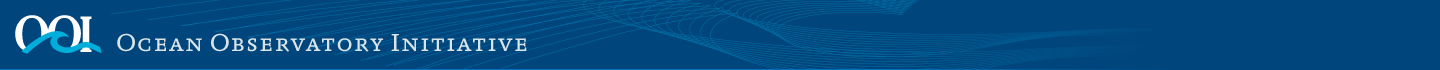
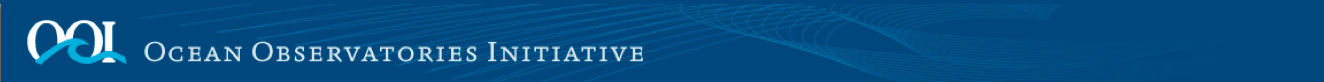
Correct page header image, initial platform device form integration.

diff --git a/static/js/ux-views.js b/static/js/ux-views.js
@@ -26,7 +26,6 @@ IONUX.Views.CreateNewView = Backbone.View.extend({
     this.$el.find("input[type='submit']").attr("disabled", true).val("Saving...");
     // var mf = new IONUX.Models.Observatory();
     
-    // var newModel = this.model; //lkajsdflskdf
     var self = this;
     $.each(this.$el.find("input,textarea").not("input[type='submit'],input[type='cancel']"), function(i, e){
       var key = $(e).attr("name"), val = $(e).val();
@@ -198,7 +197,7 @@ IONUX.Views.NewObservatoryView = IONUX.Views.CreateNewView.extend({
   },
 
   render: function(){
-    this.$el.empty().html(this.template(this.model.toJSON())).show();
+    this.$el.empty().html(this.template(this.model.toJSON())).show();    
     return this;
   },
 });
@@ -206,8 +205,10 @@ IONUX.Views.NewObservatoryView = IONUX.Views.CreateNewView.extend({
 
 IONUX.Views.NewPlatformView = IONUX.Views.CreateNewView.extend({
   el: "#platform-new-container",
-
   template: _.template($("#new-platform-tmpl").html()),
+  events: {
+    "change #marine_facility_id": "get_related_logical_platforms",
+  },
 
   initialize: function(){
     _.bindAll(this, "create_new", "render");
@@ -215,9 +216,55 @@ IONUX.Views.NewPlatformView = IONUX.Views.CreateNewView.extend({
   },
 
   render: function(){
-    this.$el.empty().html(this.template(this.model.toJSON())).show();
+    this.$el.empty().html(this.template(this.model.toJSON())).show();    
+    this.get_marine_facilities();
+    this.get_platform_models();
+    
     return this;
   },
+  
+  get_marine_facilities: function() {
+    $.ajax({
+      url: '/find_tree/MarineFacility/MarineFacility/',
+      dataType: 'json',
+      success: function(resp) {
+        _.each(resp.data, function(e, i) {
+          $('#marine_facility_id').append($('<option>').text(e[0].name).val(e[0].id).addClass('mf'));
+        });
+      }
+    });
+  },
+  
+  get_related_logical_platforms: function(evt) {
+    var marine_facility_id = $("option:selected", evt.target).val();
+    $.ajax({
+      url: '/find_tree/' + marine_facility_id + '/LogicalPlatform/',
+      dataType: 'json',
+      success: function(resp) {
+        $('#logical_platform_id').empty().show();
+      
+        _.each(resp.data, function(e, i) {
+            if (e.length > 1) {
+                $('#logical_platform_id').append($('<option>').text(e[1].name + '/' + e[2].name).val(e[2].id));
+            } else {
+              $('#logical_platform').append($('<option>').text('Not found.'));
+            }
+        });
+      }
+    });
+  },
+  
+  get_platform_models: function() {
+    $.ajax({
+      url: '/find_platform_models/',
+      dataType: 'json',
+      success: function(resp) {
+        _.each(resp.data, function(e, i) {
+          $('#platform_model_id').append($('<option>').text(e.name).val(e._id));
+        });
+      }
+    });
+  }
 });
 
 
@@ -582,13 +629,12 @@ IONUX.Views.InstrumentCommandFacepage = Backbone.View.extend({
     $.ajax({
       url: 'stop/',
       success: function() {
-        console.log('stop_agent');
         $('#stop-instrument-agent-instance').hide();
         $('#start-instrument-agent-instance').show();
         $('.instrument-commands').hide();
       },
       error: function() {
-        alert("ERror");
+        alert("An error occured.");
       }
     });
     return false;

diff --git a/templates/partials/platforms_list.html b/templates/partials/platforms_list.html
@@ -1,16 +1,10 @@
-<h1>Platforms List</h1>
+<h1>Collections: Platforms</h1>
 
 <div id="lca-collections" class="row">
 	<div class="span2 test">
 		<section class="wrapper">
 			<h3 class="wrapper-heading">Information</h3>
-			<p>Information placeholder</p>
-
-			<h3>Coverage</h3>
-			<p>Coverage placeholder</p>
-
-			<h3>Identification</h3>
-			<p>Identification placeholder</p>
+			<strong>Resources in List: </strong><span id="row-count"></span>
 		</section>
 	</div>
 		
@@ -20,6 +14,8 @@
 			<table class="table datatable-ize" width="100%">
 				<tr>
 					<th>Name</th>
+					<th>Description</th>
+					<th>Updated</th>
 					<!-- <th>Primary Measurements</th>
 					<th>Data Products</th>
 					<th>Platforms</th>
@@ -31,6 +27,8 @@
 				<% _.each(collection, function(obj) { %>
 					<tr>
 						<td><a href="/platforms/<%= obj._id %>/"><%= obj.name %></a></td>
+						<td><%= obj.description %></td>
+						<td><%= obj.ts_updated %></td>
 					</tr>
 			    <% }); %>
 			</table>
@@ -38,7 +36,5 @@
 	</div>
 </div>
 
-<button class='btn create_new'>New Platform</button>
-<div id="platform-new"></div>
 
 

diff --git a/templates/partials/instruments_list.html b/templates/partials/instruments_list.html
@@ -1,16 +1,10 @@
-<h1>Instruments List</h1>
+<h1>Collection: Instruments</h1>
 
 <div id="lca-collections" class="row">
 	<div class="span2">
 		<section class="wrapper">
 			<h3 class="wrapper-heading">Information</h3>
-			<p>Placeholder...</p>
-
-			<h3>Coverage</h3>
-			<p>Placeholder...</p>
-
-			<h3>Identification</h3>
-			<p>Placeholder...</p>
+			<strong>Resources in List: </strong><span id="row-count"></span>
 		</section>
 	</div>
 		
@@ -20,10 +14,14 @@
 			<table class="table datatable-ize" width="100%">
 				<tr>
 					<th>Name</th>
+					<th>Description</th>
+					<th>Updated</th>
 				</tr>
 				<% _.each(collection, function(obj) { %>
 					<tr>
 						<td><a href="/instruments/<%= obj._id %>/"><%= obj.name %></a></td>
+						<td><%= obj.description %></td>
+						<td><%= obj.ts_updated %></td>
 					</tr>
 			    <% }); %>
 			</table>

diff --git a/templates/partials/new_platform_device.html b/templates/partials/new_platform_device.html
@@ -21,10 +21,19 @@
 			<fieldset>
 				<legend>Location</legend>
 				<div class="control-group">
-					<label for="description">Nominal Location</label>
+					<label for="description">Location</label>
 					<div class="controls">
-						<input class="xlarge" id="latitude" name="nominal_location__lat" />
-						<input class="xlarge" id="longitude" name="nominal_location__lon" />
+						<select id="marine_facility_id"></select>
+						<select id="logical_platform_id" style="display: none;"></select>
+					</div>
+				</div>
+			</fieldset>
+			<fieldset>
+				<legend>Platform Models</legend>
+				<div class="control-group">
+					<label for="description">Platform Model</label>
+					<div class="controls">
+						<select id="platform_model_id"></select>
 					</div>
 				</div>
 			</fieldset>

diff --git a/templates/partials/observatories_index.html b/templates/partials/observatories_index.html
@@ -1,16 +1,10 @@
-<h2>Observatories List</h2>
+<h2>Collection: Observatories</h2>
 
 <div id="lca-collections" class="row">
 	<div class="span2 test">
 		<section class="wrapper">
 			<h3 class="wrapper-heading">Information</h3>
-			<p>Placeholder</p>
-
-			<h3>Coverage</h3>
-			<p>Placeholder</p>
-
-			<h3>Identification</h3>
-			<p>Placeholder...</p>
+			<strong>Resources in List: </strong><span id="row-count"></span>
 		</section>
 	</div>
 		
@@ -24,7 +18,6 @@
 					<th>Description</th>
 					<th>Contact</th>
 				</tr>
-
 			    <% _.each(collection, function(obj) { %>
 						<tr>
 							<td><a href="/observatories/<%= obj._id %>/"><%= obj.name %></a></td>
@@ -38,6 +31,3 @@
 	</div>
 </div>
 
-
-<button class='btn create_new'>New Observatory</button>
-<div id="observatories-new"></div>

diff --git a/templates/partials/data_products_list.html b/templates/partials/data_products_list.html
@@ -1,16 +1,10 @@
-<h1>Data Products List</h1>
+<h1>Collection: Data Products</h1>
 
 <div id="lca-collections" class="row">
 	<div class="span2 test">
 		<section class="wrapper">
 			<h3 class="wrapper-heading">Information</h3>
-			<p>Placeholder</p>
-
-			<h3>Coverage</h3>
-			<p>Placeholder</p>
-
-			<h3>Identification</h3>
-			<p>Placeholder...</p>
+			<strong>Resources in List: </strong><span id="row-count"></span>
 		</section>
 	</div>
 		

diff --git a/templates/partials/observatory_facepage.html b/templates/partials/observatory_facepage.html
@@ -252,7 +252,7 @@
 					</tr>
 					<% _.each(platform_models, function(obj) { %>
 						<tr>
-							<td><a href="platform_models/<%= obj._id %>/"><%= obj.name %></a></td>
+							<td><a href="/platform_models/<%= obj._id %>/"><%= obj.name %></a></td>
 							<td><%= obj.description %></td>
 							<td><%= obj.manufacturer.name %></td>
 							<td><%= obj.OOI_node_type %></td>

diff --git a/main.py b/main.py
@@ -319,6 +319,17 @@ def new_resource_router(resource_type):
     else:
         return render_app_template(request.path)
 
+@app.route('/find_tree/<root_type>/<leaf_type>/', methods=['GET'])
+def find_leaves(root_type, leaf_type):
+    tree_list = ServiceApi.find_leaves(root_type, leaf_type)
+    return jsonify(data=tree_list)
+
+@app.route('/find_platform_models/', methods=['GET'])
+def find_platform_models():
+    platform_models = ServiceApi.find_platform_models()
+    return jsonify(data=platform_models)
+
+
 # -------------------------------------------------------------------------
 # RESOURCE BROWSER - MUCH REFACTORING NEEDED
 # -------------------------------------------------------------------------

diff --git a/service_api.py b/service_api.py
@@ -25,6 +25,11 @@ AGENT_REQUEST_TEMPLATE = {
 class ServiceApi(object):
     
     @staticmethod
+    def find_platform_models():
+        platform_models = service_gateway_get('instrument_management', 'find_platform_models', params={})
+        return platform_models
+
+    @staticmethod
     def instrument_primary_deployment_off(instrument_device_id, logical_instrument_id):
         primary_deployment = service_gateway_get('instrument_management', 'undeploy_primary_instrument_device_from_logical_instrument', params={'instrument_device_id': instrument_device_id, 'logical_instrument_id': logical_instrument_id})
         print '<3-------------------------------------------', str(primary_deployment)
